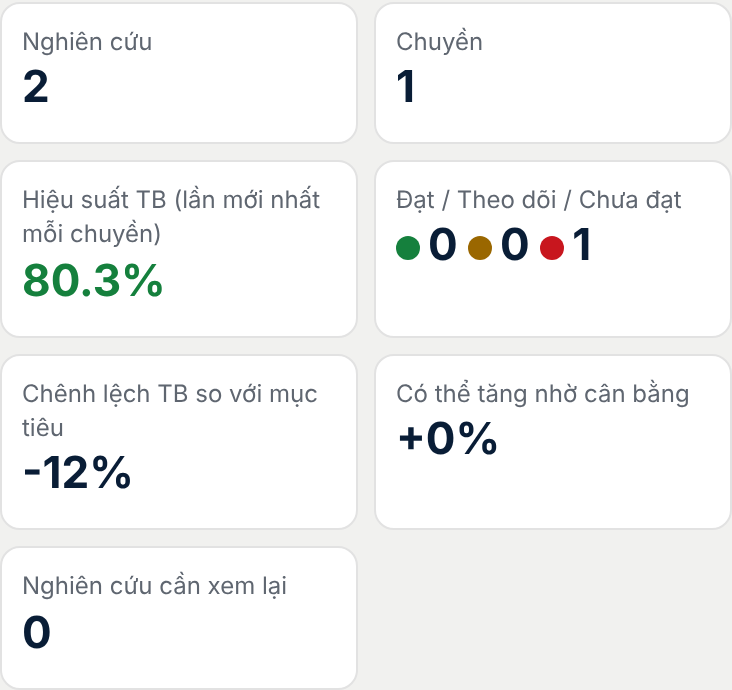
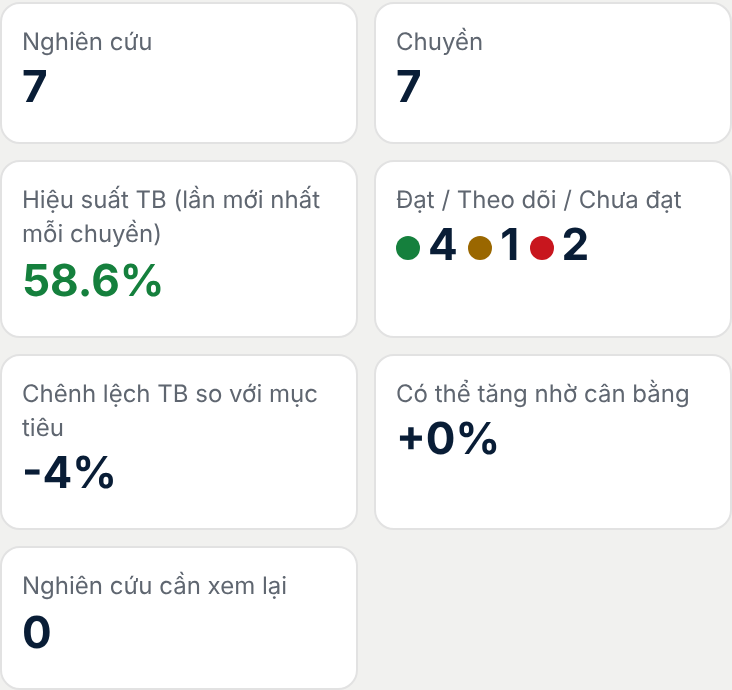
User guide: customer efficiency section and new supervisor screenshots
- Chapter 08: new step 'Hiệu suất TB theo khách hàng' with screenshot and
  the customer rule; steps renumbered.
- Refreshed screenshots of the KPI tiles and of 'latest study per line'
  (several lines, sorted by name).

Claude-Session: https://claude.ai/code/session_01HSftGS2br8JvXyeQHZJyFD

diff --git a/huong-dan/index.html b/huong-dan/index.html
@@ -563,23 +563,31 @@ footer { grid-column: 1 / -1; border-top: 1px solid var(--line); padding-top: 16
             <tr><td><span class="dot r"></span>Chưa đạt</td><td>Hiệu suất thấp hơn chuẩn trên 10 điểm, hoặc năng lực dưới 90% mục tiêu.</td></tr>
           </table></div>
           <p>Ô <b>Có thể tăng nhờ cân bằng</b> cho biết năng lực có thể tăng bao nhiêu nếu làm theo đề xuất điều chuyển.</p>
-          <p><b>Hiệu suất TB theo khách hàng</b>: khách hàng lấy từ mã hàng. Mã bắt đầu bằng <span class="key">SP</span> là <b>LLM</b>; các mã khác bắt đầu bằng <span class="key">F</span> hoặc <span class="key">S</span> là <b>ADI</b>; còn lại là 3 ký tự đầu (ví dụ <span class="key">PUM25-00054</span> → <b>PUM</b>). Mỗi mã hàng trên mỗi chuyền chỉ tính lần nghiên cứu mới nhất. Cột màu xanh lá là đạt hiệu suất chuẩn.</p>
         </div>
         <figure><img src="img/21-sup-kpi.png" alt="Các ô chỉ số tổng của giám sát" width="366" height="345" loading="lazy"><figcaption>Chỉ số tổng</figcaption></figure>
       </div>
 
+      <div class="step">
+        <div class="txt">
+          <h3><span class="n">3</span>Hiệu suất TB theo khách hàng</h3>
+          <p>Khách hàng lấy từ mã hàng. Mã bắt đầu bằng <span class="key">SP</span> là <b>LLM</b>; các mã khác bắt đầu bằng <span class="key">F</span> hoặc <span class="key">S</span> là <b>ADI</b>; còn lại là 3 ký tự đầu (ví dụ <span class="key">PUM25-00054</span> → <b>PUM</b>). Mỗi mã hàng trên mỗi chuyền chỉ tính lần nghiên cứu mới nhất. Cột màu xanh lá là đạt hiệu suất chuẩn.</p>
+          <p>Bảng bên dưới biểu đồ ghi số mã hàng, số chuyền và hiệu suất trung bình của từng khách hàng. Báo cáo tổng hợp Excel có trang <b>Customers</b> với cùng số liệu.</p>
+        </div>
+        <figure><img src="img/31-sup-customer.png" alt="Hiệu suất trung bình theo khách hàng" width="366" height="385" loading="lazy"><figcaption>Hiệu suất TB theo khách hàng</figcaption></figure>
+      </div>
+
       <div class="step wide">
         <div class="txt">
-          <h3><span class="n">3</span>Bảng chuyền và kết quả nghiên cứu lại</h3>
+          <h3><span class="n">4</span>Bảng chuyền và kết quả nghiên cứu lại</h3>
           <p>Bảng <b>Nghiên cứu mới nhất của từng chuyền</b> xếp theo tên chuyền (L2 trước L10), có năng lực so với mục tiêu, tỷ lệ cân bằng, nút cổ chai và chất lượng nghiên cứu. Bảng <b>Kết quả nghiên cứu lại</b> so sánh trước → sau: thay đổi hiệu suất (điểm %) và năng lực (%). Trên điện thoại, kéo ngang để xem hết cột.</p>
         </div>
-        <figure class="doc"><img src="img/26-sup-lines.png" alt="Bảng nghiên cứu mới nhất của từng chuyền" width="1472" height="370" loading="lazy"><figcaption>Nghiên cứu mới nhất của từng chuyền</figcaption></figure>
+        <figure class="doc"><img src="img/26-sup-lines.png" alt="Bảng nghiên cứu mới nhất của từng chuyền" width="736" height="608" loading="lazy"><figcaption>Nghiên cứu mới nhất của từng chuyền</figcaption></figure>
         <figure class="doc"><img src="img/24-sup-restudy.png" alt="Bảng kết quả nghiên cứu lại trước và sau" width="1472" height="228" loading="lazy"><figcaption>Kết quả nghiên cứu lại của L05: trước → sau</figcaption></figure>
       </div>
 
       <div class="step">
         <div class="txt">
-          <h3><span class="n">4</span>Duyệt nghiên cứu và báo cáo tổng hợp</h3>
+          <h3><span class="n">5</span>Duyệt nghiên cứu và báo cáo tổng hợp</h3>
           <ul>
             <li>Mở một nghiên cứu, ở phần <span class="ui">Duyệt của giám sát</span> ghi nhận xét cho IE và bấm <span class="ui">Đã duyệt</span> hoặc <span class="ui">Cần kiểm tra lại</span>. IE thấy kết quả duyệt và nhận xét trong nghiên cứu của mình sau khi điện thoại đồng bộ.</li>
             <li>Cuối bảng theo dõi: <span class="ui">Xuất báo cáo tổng hợp (Excel)</span> hoặc <span class="ui">Sao chép nội dung tóm tắt</span> để dán vào tin nhắn.</li>
